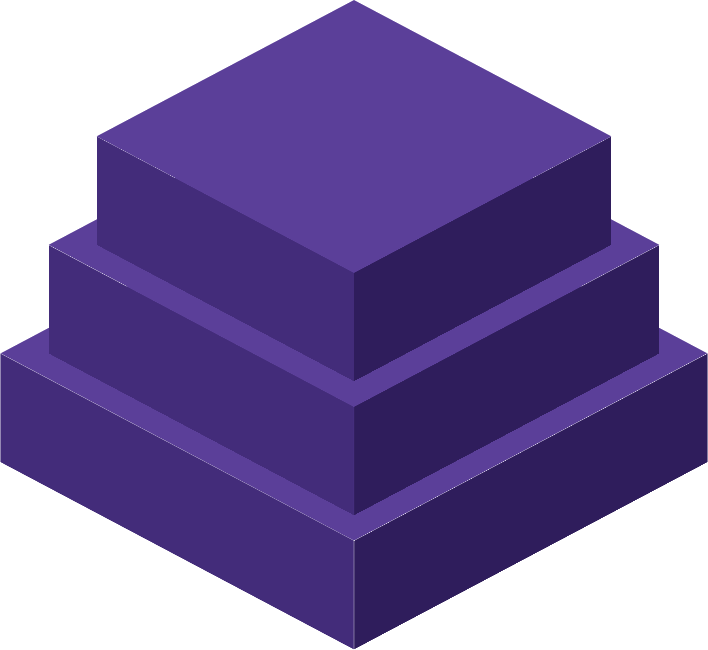
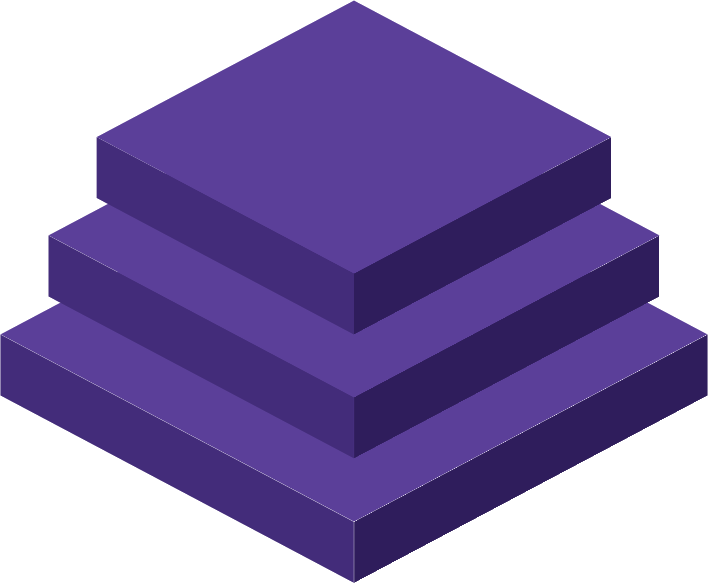
CEM page 1: Cultural Materialism above the title, the Emergence Model and Four Quadrants below, Base-Superstructure gone; Cultural Materialism with thinner slabs
Claude-Session: https://claude.ai/code/session_01LgHoU9QwZ5ZurXZhgzwbWe

diff --git a/model/index.html b/model/index.html
@@ -131,10 +131,10 @@
          across, the upper pair ending as far above the title as the lower
          pair begins below the introduction, all as large as the room above
          and below allows (the script sets where, and how large) */
-      .md-corner-tl,
-      .md-corner-tr {
+      .md-corner-top {
         top: var(--c-top, 120px);
-        transform: translateY(-100%);
+        left: 50%;
+        transform: translate(-50%, -100%);
       }
 
       .md-corner-bl,
@@ -142,17 +142,13 @@
         top: var(--c-bottom, 640px);
       }
 
-      .md-corner-tl,
       .md-corner-bl { left: var(--c-x, 56px); }
 
-      .md-corner-tr,
       .md-corner-br { right: var(--c-x, 56px); }
 
-      .md-corner-tl:hover,
-      .md-corner-tr:hover,
-      .md-corner-tl:focus-visible,
-      .md-corner-tr:focus-visible {
-        transform: translateY(calc(-100% - 4px));
+      .md-corner-top:hover,
+      .md-corner-top:focus-visible {
+        transform: translate(-50%, calc(-100% - 4px));
       }
     }
 
@@ -1246,13 +1242,13 @@
   </style>
 </head>
 <body class="no-band">
-  <!-- the first screen's corners: the other four models' diagrams, as the
-       Models page draws them, each leading to its model -->
+  <!-- the first screen: three of the other models' diagrams, as the Models
+       page draws them, each leading to its model: Cultural Materialism above
+       the title, the Emergence Model and the Four Quadrants below -->
   <div class="md-corners">
-    <a class="md-corner md-corner-tl" href="../diagram/#emergence-model" aria-label="The Emergence Model"><img src="../assets/models/emergence.png" alt="" width="800" decoding="async"></a>
-    <a class="md-corner md-corner-tr" href="../diagram/#four-quadrants" aria-label="Integral Model: Four Quadrants"><img src="../assets/models/integral.png" alt="" width="800" decoding="async"></a>
-    <a class="md-corner md-corner-bl" href="../diagram/#structures" aria-label="Cultural Materialism: Three Structures"><img src="../assets/models/cultural-materialism.png" alt="" width="800" decoding="async"></a>
-    <a class="md-corner md-corner-br" href="../diagram/#base-superstructure" aria-label="Classical Marxism: Base-Superstructure"><img src="../assets/models/marxism.png" alt="" width="800" decoding="async"></a>
+    <a class="md-corner md-corner-top" href="../diagram/#structures" aria-label="Cultural Materialism: Three Structures"><img src="../assets/models/cultural-materialism.png" alt="" width="708" decoding="async"></a>
+    <a class="md-corner md-corner-bl" href="../diagram/#emergence-model" aria-label="The Emergence Model"><img src="../assets/models/emergence.png" alt="" width="800" decoding="async"></a>
+    <a class="md-corner md-corner-br" href="../diagram/#four-quadrants" aria-label="Integral Model: Four Quadrants"><img src="../assets/models/integral.png" alt="" width="800" decoding="async"></a>
   </div>
   <a class="back-arrow" href="../" aria-label="Back to the article" data-direct>
     <svg viewBox="0 0 26 20" fill="none" stroke="currentColor" stroke-width="1.8" stroke-linecap="butt" stroke-linejoin="miter">
@@ -1651,7 +1647,7 @@
         var t = r.getBoundingClientRect(), i = intro.getBoundingClientRect(), y = window.scrollY;
         // each image's height for its width
         var ratio = function (sel) { var im = corners.querySelector(sel + ' img'); return im && im.naturalWidth ? im.naturalHeight / im.naturalWidth : 1; };
-        var up = Math.max(ratio('.md-corner-tl'), ratio('.md-corner-tr'));
+        var up = ratio('.md-corner-top');
         var down = Math.max(ratio('.md-corner-bl'), ratio('.md-corner-br'));
         var first = scene.getBoundingClientRect().top + y;
         // as large as fits below the menu and above the foot of the screen

diff --git a/diagram/index.html b/diagram/index.html
@@ -4189,7 +4189,7 @@
             detail: '<p class="st-detail-name st-detail-name-only">' + L.name + '<span class="name-sep">:</span> ' + L.aka + '</p>' +
               '<p class="st-detail-def">' + L.def + '</p>'
           };
-        }), { SIZE: 250, H: 64, TRIM: 34, STEP: 700, prelude: { n: structuresFromStack ? 4 : 1, SIZE: 250, H: 44, TRIM: 30, STEP: 520 } });
+        }), { SIZE: 250, H: 36, TRIM: 34, STEP: 700, prelude: { n: structuresFromStack ? 4 : 1, SIZE: 250, H: 44, TRIM: 30, STEP: 520 } });
       }
       // the alternative view of the structures: the three layers, one above
       // the other, and how each acts on its neighbour
